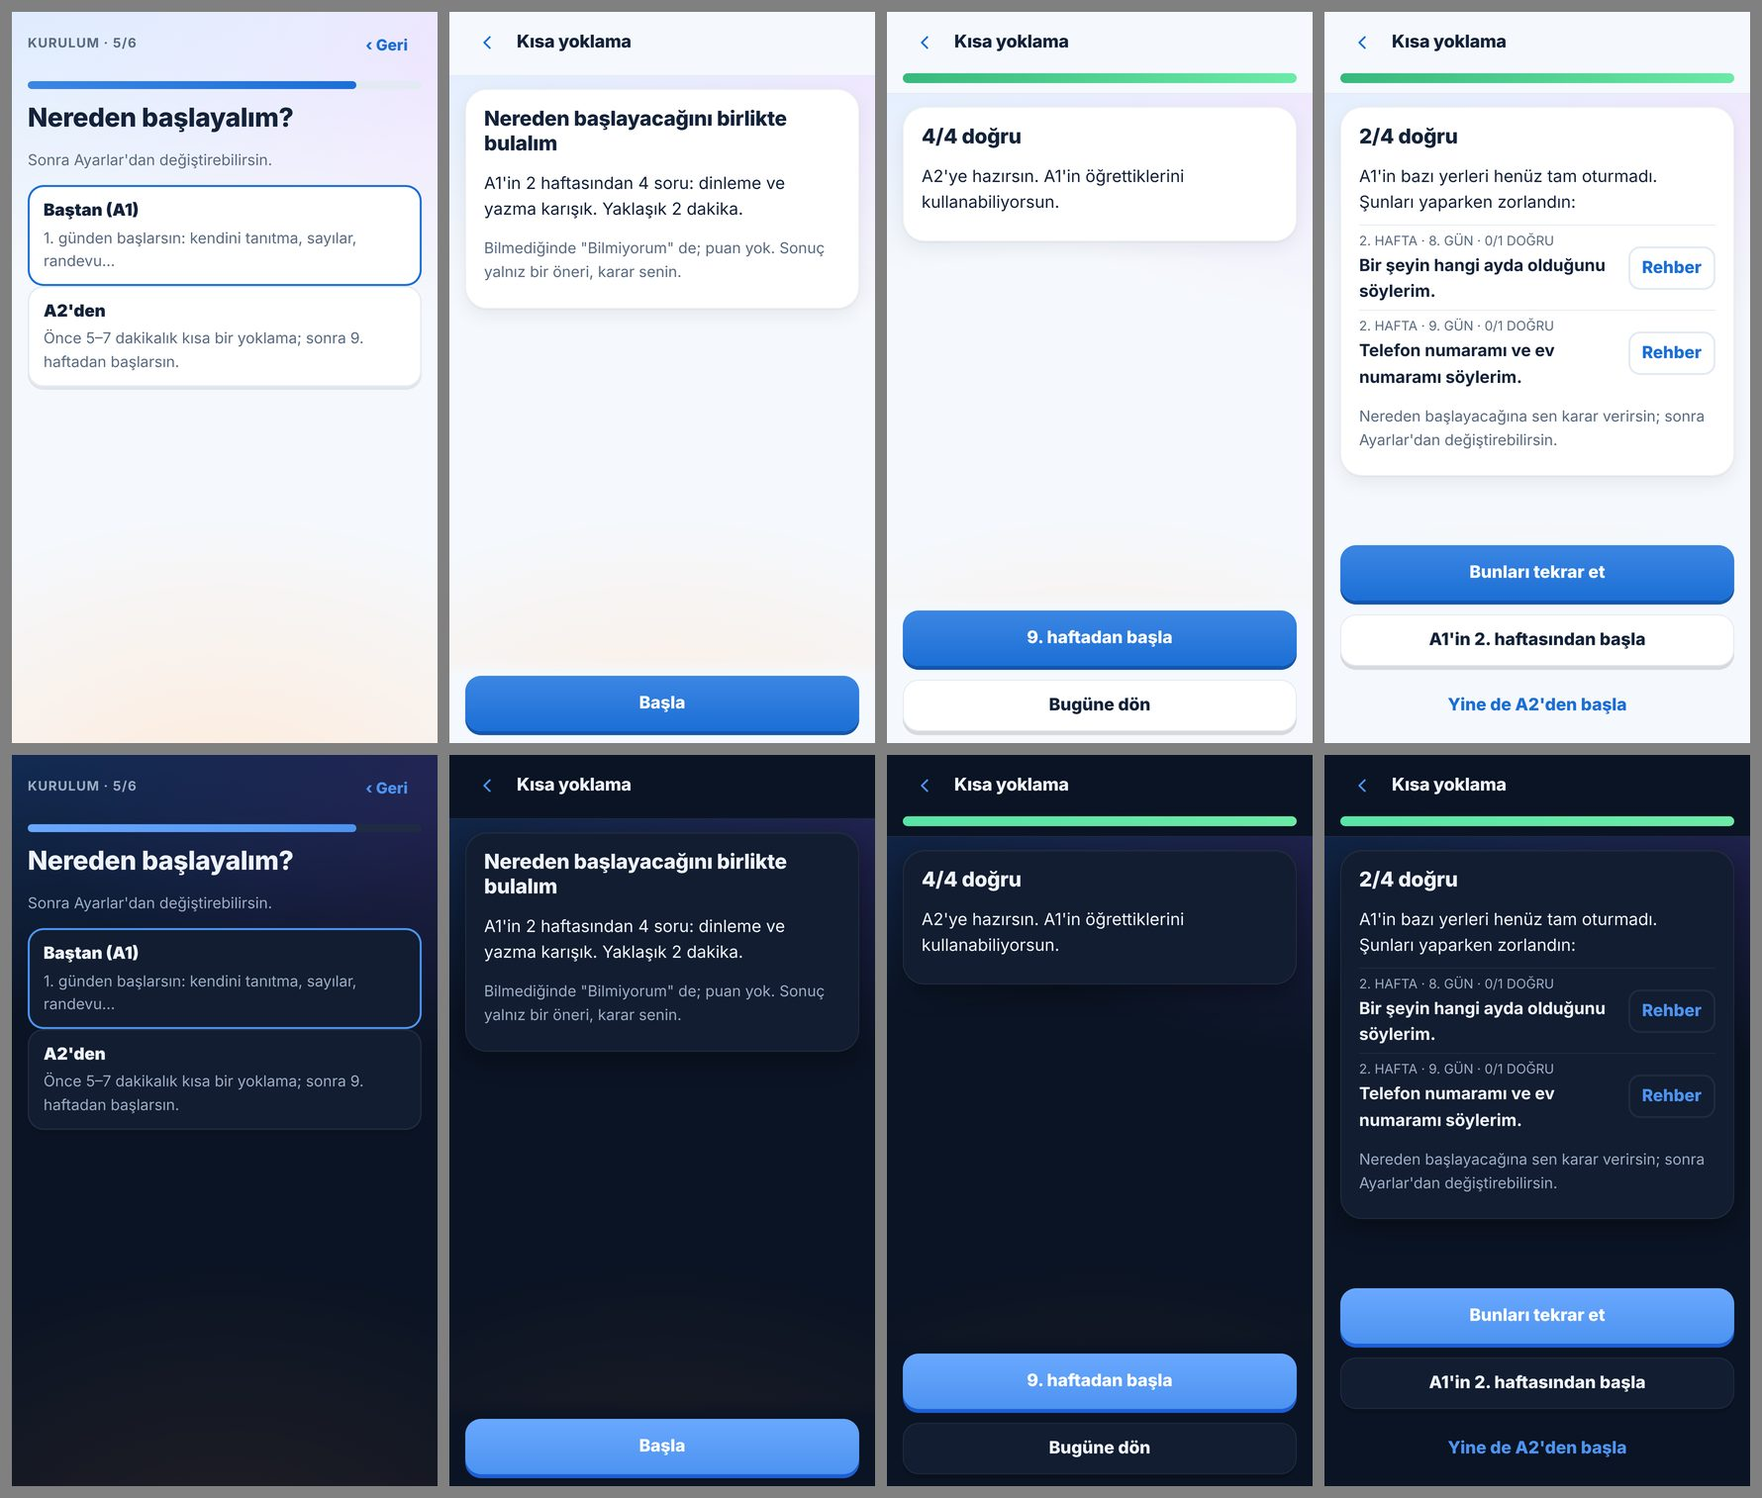
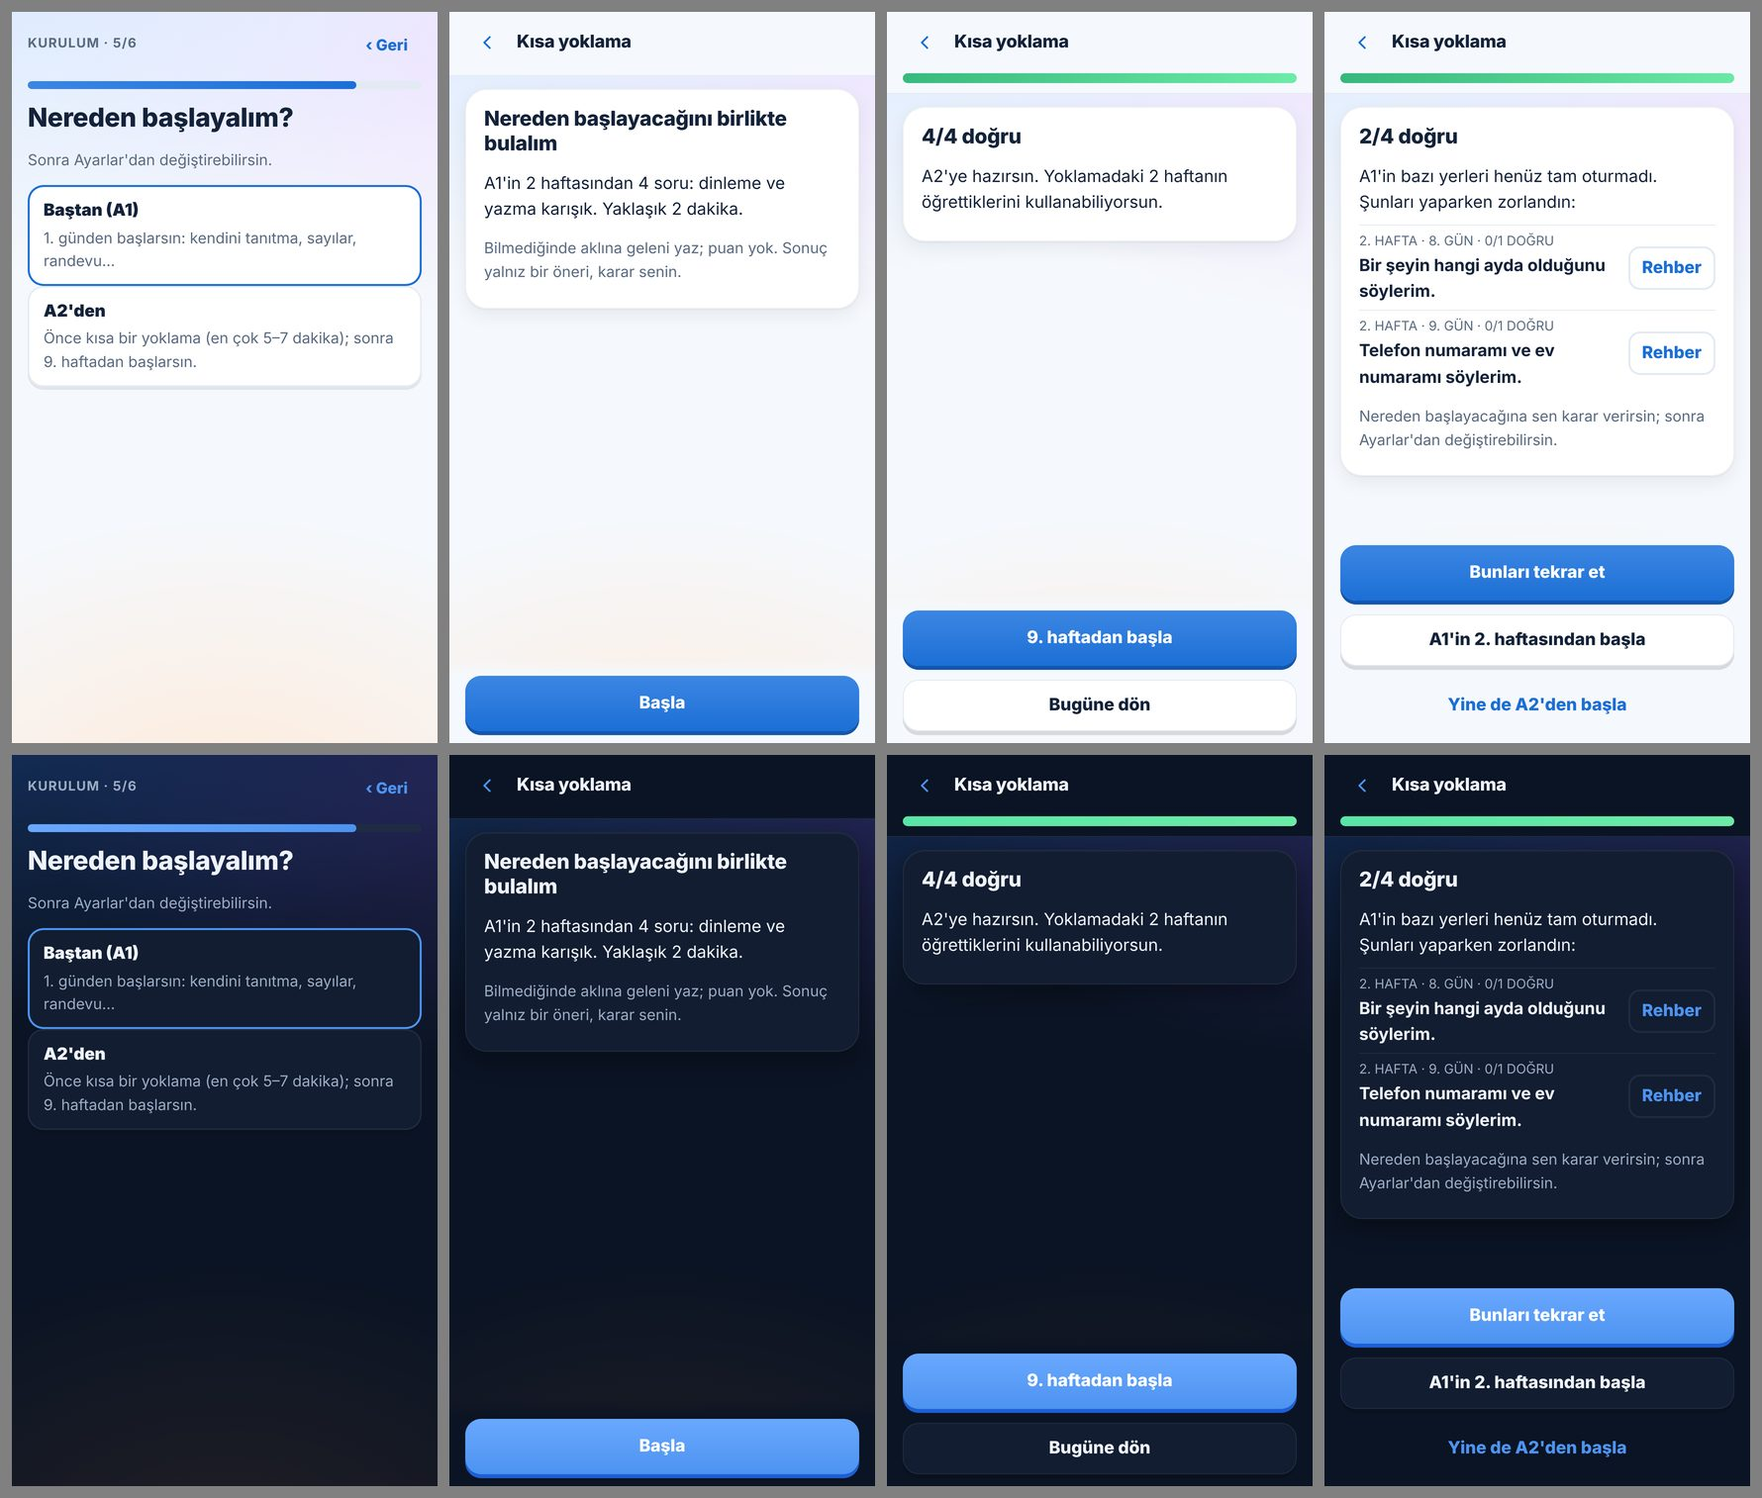
İnceleme #245: 'Gir' akışa gider (P1-1); 57. gün e2e'de oynanır; yoklama kapsamı, süre, bildirim, boş tekrar geri oku, kayıt hatası, A2 yokken açıklama, başlangıç haftası paket kontrolü (P2-1..6, 8)
Claude-Session: https://claude.ai/code/session_016gishJmnXNioGn5XkEmWZT

diff --git a/web/src/screens/Seviye.tsx b/web/src/screens/Seviye.tsx
@@ -8,7 +8,7 @@
 import { useEffect, useState } from "preact/hooks";
 import type { Drill } from "@dw/shared";
 import { go, useApp } from "../state.ts";
-import { a2Var, enErkenZayif, gecti, haftaBasi, SEVIYE, yoklamaDk, yoklamaSec, yoklamaZayif, type YoklamaMadde } from "../core/seviye.ts";
+import { a2Var, enErkenZayif, etkinBaslangic, gecti, haftaBasi, SEVIYE, yoklamaDk, yoklamaSec, yoklamaZayif, type YoklamaMadde } from "../core/seviye.ts";
 import { haftaOf } from "../core/gun.ts";
 import { personalizeDeep } from "../core/persona.ts";
 import { baslangicOku, baslangicYaz, yoklamaSonOku, yoklamaSonYaz, yoklamaTestleri, type YoklamaSon } from "../services/seviye.ts";
@@ -60,21 +60,24 @@ export function BaslangicSecimi({ kurulum, secili, onSec }: { kurulum?: boolean;
   const [onay, setOnay] = useState(false);
   const { basla, mesgul } = useBasla();
   useEffect(() => { if (!kurulum) void baslangicOku().then(setBas).catch(() => setBas(1)); }, []);
-  const a2 = !!index && a2Var(index.m1.map((g) => g.day));
-  const simdi = kurulum ? secili : bas === null ? undefined : bas >= SEVIYE.a2_ilk_gun ? "a2" : "a1";
+  const days = index?.m1.map((g) => g.day) ?? [];
+  const a2 = !!index && a2Var(days);
+  // kayıtlı başlangıç paketten düştüyse (A2 günleri yok) ekranda etkin olanı (baştan) söyle (inceleme #245 P2-5)
+  const etkin = bas === null || !index ? bas : etkinBaslangic(days, bas);
+  const simdi = kurulum ? secili : etkin === null ? undefined : etkin >= SEVIYE.a2_ilk_gun ? "a2" : "a1";
   const sec = (x: "a1" | "a2") => {
     if (kurulum) return onSec?.(x);
     if (x === "a2") return go("seviye");
-    if ((bas ?? 1) > 1) setOnay(true);
+    if ((etkin ?? 1) > 1) setOnay(true);
   };
   return (
     <div class="stack baslangic" data-test="baslangic-secimi" style={{ gap: 8 }}>
-      {!kurulum && bas !== null && <p class="small muted" data-test="baslangic-simdi" style={{ margin: 0 }}>Şu an: <b>{baslangicAdi(bas)}</b></p>}
+      {!kurulum && etkin !== null && <p class="small muted" data-test="baslangic-simdi" style={{ margin: 0 }}>Şu an: <b>{baslangicAdi(etkin)}</b></p>}
       <button class={`opt baslangic-opt${simdi === "a1" ? " sel" : ""}`} aria-pressed={simdi === "a1"} data-test="baslangic-a1" onClick={() => sec("a1")}>
         <span class="baslangic-ic"><b>Baştan (A1)</b><span class="small muted">1. günden başlarsın: kendini tanıtma, sayılar, randevu…</span></span>
       </button>
       <button class={`opt baslangic-opt${simdi === "a2" ? " sel" : ""}`} aria-pressed={simdi === "a2"} data-test="baslangic-a2" disabled={!a2} onClick={() => sec("a2")}>
-        <span class="baslangic-ic"><b>A2'den</b><span class="small muted">{a2 ? `Önce 5–7 dakikalık kısa bir yoklama; sonra ${a2Hafta}. haftadan başlarsın.` : "A2'nin günleri hazırlanıyor; hazır olunca buradan seçebilirsin."}</span></span>
+        <span class="baslangic-ic"><b>A2'den</b><span class="small muted">{a2 ? `Önce kısa bir yoklama (en çok 5–7 dakika); sonra ${a2Hafta}. haftadan başlarsın.` : "A2'nin günleri hazırlanıyor; hazır olunca buradan seçebilirsin."}</span></span>
       </button>
       {onay && (
         <section class="card stack" data-test="baslangic-a1-soru" style={{ gap: 8 }}>
@@ -90,7 +93,7 @@ export function BaslangicSecimi({ kurulum, secili, onSec }: { kurulum?: boolean;
 }
 
 export function SeviyeYoklama() {
-  const { index } = useApp();
+  const { index, toast } = useApp();
   const { maddeler, err, yenile } = useYoklama();
   const [basladi, setBasladi] = useState(false);
   const [q, setQ] = useState(0);
@@ -119,7 +122,7 @@ export function SeviyeYoklama() {
       <section class="card stack">
         <h2>Nereden başlayacağını birlikte bulalım</h2>
         <p>A1'in {haftalar} haftasından {toplam} soru: dinleme ve yazma karışık. Yaklaşık {yoklamaDk(toplam)} dakika.</p>
-        <p class="small muted">Bilmediğinde "Bilmiyorum" de; puan yok. Sonuç yalnız bir öneri, karar senin.</p>
+        <p class="small muted">Bilmediğinde aklına geleni yaz; puan yok. Sonuç yalnız bir öneri, karar senin.</p>
       </section>
       <ActionBar><button class="btn primary block" data-test="yoklama-basla" onClick={() => { setBasladi(true); window.scrollTo(0, 0); }}>Başla</button></ActionBar>
     </div>
@@ -129,7 +132,7 @@ export function SeviyeYoklama() {
     const y = r === "wrong" ? [...yanlis, m.d.id] : yanlis;
     const d = dogru + (r === "wrong" ? 0 : 1);
     setYanlis(y); setDogru(d); window.scrollTo(0, 0);
-    if (q + 1 >= toplam) { setBitti(true); void yoklamaSonYaz({ dogru: d, toplam, yanlis: y, maddeler: maddeler.map((x) => x.d.id) }).then(() => go("seviye/sonuc")); }
+    if (q + 1 >= toplam) { setBitti(true); void yoklamaSonYaz({ dogru: d, toplam, yanlis: y, maddeler: maddeler.map((x) => x.d.id) }).then(() => go("seviye/sonuc"), () => { setBitti(false); toast("Sonuç kaydedilemedi; son soruyu yeniden cevapla."); }); }
     else setQ(q + 1);
   };
   return (
@@ -164,13 +167,15 @@ export function SeviyeSonuc() {
   const a1Gun = haftaBasi(erken ?? 1);
   const yanlisDrill = bu.filter((x) => yanlis.has(x.d.id)).map((x) => x.d);
   const a2 = a2Var(index.m1.map((g) => g.day));
+  // yoklama A1'in yalnız paketteki haftalarından: az haftayla "A1'in tamamı" denmez (inceleme #245 P2-1)
+  const kapsam = new Set(bu.map((x) => x.hafta)).size;
   return (
     <div class="stack" data-test="yoklama-sonuc" data-dogru={son.dogru} data-toplam={son.toplam} data-gecti={ok ? "1" : "0"} data-erken={erken ?? ""}>
       <ProgressHeader title={BASLIK} back="#/today" ilerleme={{ n: son.toplam, toplam: son.toplam }} />
       <section class="card stack">
         <h2>{son.dogru}/{son.toplam} doğru</h2>
         {ok
-          ? <p>A2'ye hazırsın. A1'in öğrettiklerini kullanabiliyorsun.</p>
+          ? <p>A2'ye hazırsın. {kapsam === SEVIYE.a1_hafta ? "A1'in öğrettiklerini kullanabiliyorsun." : `Yoklamadaki ${kapsam} haftanın öğrettiklerini kullanabiliyorsun.`}</p>
           : zayif.length
             ? <p>A1'in bazı yerleri henüz tam oturmadı. Şunları yaparken zorlandın:</p>
             : <p>A1'in bazı yerleri henüz tam oturmadı. İstersen önce o haftanın günlerinden başla; karar senin.</p>}
@@ -183,6 +188,7 @@ export function SeviyeSonuc() {
             <a class="rehber-btn" href={`#/rehber/${z.gun}`} aria-label={`${z.gun}. günün rehberi`}>Rehber</a>
           </li>))}</ol>}
         {!ok && <p class="small muted">Nereden başlayacağına sen karar verirsin; sonra Ayarlar'dan değiştirebilirsin.</p>}
+        {!a2 && <p class="small muted" data-test="a2-hazirlaniyor">A2'nin günleri hazırlanıyor; hazır olunca buradan ya da Ayarlar'dan başlayabilirsin.</p>}
       </section>
       <ActionBar>
         {ok

diff --git a/web/src/screens/HaftaTesti.tsx b/web/src/screens/HaftaTesti.tsx
@@ -23,12 +23,12 @@ import { ErrorPanel, Loading } from "../ui/components.tsx";
 import { ActionBar, ProgressHeader } from "../ui/kit.tsx";
 import POLICY from "../policy.json" with { type: "json" };
 
-function Kilitli({ ust, baslik, metin, test = "gun-kilitli", ek }: { ust: string; baslik: string; metin: string; test?: string; ek?: ComponentChildren }) {
+function Kilitli({ ust, baslik, metin, test = "gun-kilitli", ek, back = "#/today" }: { ust: string; baslik: string; metin: string; test?: string; ek?: ComponentChildren; back?: string }) {
   return (
     <div class="stack" data-test={test}>
-      <ProgressHeader title={ust} back="#/today" />
+      <ProgressHeader title={ust} back={back} />
       <section class="card stack"><h2>{baslik}</h2><p>{metin}</p>{ek}</section>
-      <ActionBar><a class="btn primary block" href="#/today" data-test="bugune-don">Bugüne dön</a></ActionBar>
+      <ActionBar><a class="btn primary block" href={back} data-test="bugune-don">{back === "#/today" ? "Bugüne dön" : "Geri dön"}</a></ActionBar>
     </div>
   );
 }
@@ -195,7 +195,7 @@ export function HaftaTekrarEkrani({ hafta, gunler, seviye = false }: { hafta: nu
   }, [index?.version, hafta, gunler.join(","), n, seviye]);
   if (err) return <div class="stack"><ProgressHeader title={baslik} back={geri} /><ErrorPanel message={err} onRetry={() => setN((x) => x + 1)} /></div>;
   if (!tur) return <Loading />;
-  if (tur === "bos") return <Kilitli ust={baslik} baslik="Burada tekrar yok" metin="Bu günler henüz bitmedi ya da tekrar alıştırması yok." test="hafta-tekrar-bos"
+  if (tur === "bos") return <Kilitli ust={baslik} baslik="Burada tekrar yok" metin={seviye ? "Bu günlerin tekrar alıştırması henüz yok." : "Bu günler henüz bitmedi ya da tekrar alıştırması yok."} test="hafta-tekrar-bos" back={geri}
     ek={gunler.filter((g) => (seviye || haftaOf(g) === hafta) && index?.m1.some((x) => x.day === g)).slice(0, 1).map((g) => <a class="btn sm" href={`#/rehber/${g}`}>{g}. günün Rehber'i</a>)} />;
   if (bitti) return (
     <div class="stack" data-test="hafta-tekrar-sonuc" data-dogru={dogru} data-toplam={tur.length}>

diff --git a/web/src/screens/Yol.tsx b/web/src/screens/Yol.tsx
@@ -222,7 +222,8 @@ export function YolHarita({ plan, selam, ek, onBasla, yalnizBugun }: { plan: Pla
         </button>
         {ac && <ol class="hafta-gunler" data-test={`hafta-${h.hafta}-gunler`}>{h.gunler.map((g) => (
           <li class="row" data-test={`gun-${g.day}`} data-durum={g.atlandi ? "atlandi" : "bitti"}><span class="grow"><span class="tiny muted">GÜN {g.day}{g.atlandi ? " · ATLANDI" : ""}</span> {g.title_tr}</span>
-            {g.atlandi && <a class="rehber-btn" href={`#/m1/${g.day}`} data-test={`gir-${g.day}`} aria-label={`${g.day}. güne gir`}>Gir</a>}
+            {/* atlanan gün halka biçiminde akışla açılır (inceleme #245 P1-1); gün kilidi atlanan günü açık tutar */}
+            {g.atlandi && <a class="rehber-btn" href={`#/akis/${g.day}`} data-test={`gir-${g.day}`} aria-label={`${g.day}. güne gir`}>Gir</a>}
             <a class="rehber-btn" href={`#/rehber/${g.day}`} aria-label={`${g.day}. günün rehberi`}>Rehber</a></li>))}</ol>}
         {/* üstte "… sonu testi hazır → Çöz" satırı dururken aynı teste ikinci giriş yok (#243 PM finali takip b) */}
         {ac && testAcik(h.hafta) && !bekleyenTest.includes(h.hafta) && <div class="row">{testDugum(h.hafta)}</div>}

diff --git a/web/src/core/seviye.ts b/web/src/core/seviye.ts
@@ -16,8 +16,9 @@ import POLICY from "../policy.json" with { type: "json" };
 export const SEVIYE = POLICY.seviye;
 /** Haftanın ilk günü */
 export const haftaBasi = (hafta: number) => 7 * (hafta - 1) + 1;
-/** Pakette başlangıç gününden itibaren gün yoksa başlangıç uygulanmaz (A2 günleri henüz yoksa öğrenci boş yola düşmez) */
-export const etkinBaslangic = (days: readonly number[], bas: number): number => (bas > 1 && yolGunleri([...days]).some((d) => d >= bas) ? bas : 1);
+/** Başlangıç haftasının günü pakette yoksa başlangıç uygulanmaz (A2 günleri henüz yoksa öğrenci boş yola ya da ileri bir
+ *  haftaya düşmez; inceleme #245 P2-6) */
+export const etkinBaslangic = (days: readonly number[], bas: number): number => (bas > 1 && yolGunleri([...days]).some((d) => d >= bas && haftaOf(d) === haftaOf(bas)) ? bas : 1);
 /** A2 pakette var mı ("A2'den" seçeneği yalnız o zaman) */
 export const a2Var = (days: readonly number[]) => etkinBaslangic(days, SEVIYE.a2_ilk_gun) === SEVIYE.a2_ilk_gun;
 

diff --git a/web/src/screens/Onboarding.tsx b/web/src/screens/Onboarding.tsx
@@ -168,7 +168,7 @@ export function Onboarding() {
           {baslangic === "a2"
             ? <>
                 <div class="card small">
-                  <b>Kısa yoklama.</b> A1'in hafta sonu testlerinden 5–7 dakikalık birkaç soru. Sonuç yalnız bir öneri; nereden başlayacağına sen karar verirsin.
+                  <b>Kısa yoklama.</b> A1'in hafta sonu testlerinden birkaç soru (en çok 5–7 dakika). Sonuç yalnız bir öneri; nereden başlayacağına sen karar verirsin.
                 </div>
                 <button class="btn primary block" onClick={() => finish("seviye")} data-test="yoklama-git">Kısa yoklamaya başla</button>
               </>

diff --git a/web/src/core/seviye.test.ts b/web/src/core/seviye.test.ts
@@ -26,6 +26,8 @@ describe("seviye: başlangıç ve atlanan günler", () => {
     expect(a2Var([1, 2, 3])).toBe(false);
     expect(a2Var(days)).toBe(true);
     expect(etkinBaslangic(days, 15)).toBe(15);
+    // başlangıç haftasında gün yoksa ileri haftaya atlanmaz (inceleme #245 P2-6): 1–7 + 57 paketinde "2. haftadan" → baştan
+    expect(etkinBaslangic([1, 2, 3, 4, 5, 6, 7, 57], 8)).toBe(1);
   });
   it("atlanan = başlangıçtan önce, bitmemiş; biten gün atlanmış sayılmaz", () => {
     expect([...atlananlar(days, 57, new Set([1]))]).toEqual([2, 3, 8, 9, 15]);

diff --git a/tests/e2e/v2_seviye.py b/tests/e2e/v2_seviye.py
@@ -12,6 +12,7 @@ python3 tests/e2e/v2_seviye.py [--browser webkit] [--device "iPhone 15"] [--sche
 from playwright.sync_api import sync_playwright
 from common import serve, launch, new_page, login_onboard, check, finish, shot, arg, no_overflow, HIZLI_KAPAT
 from v2_yol_hafta import coz, yanlis, META
+from v2_akis import adim_gec
 
 PORT = 4257
 ITEMS = """async () => { const d = await new Promise((ok) => { const q = indexedDB.open('dw2'); q.onsuccess = () => ok(q.result); });
@@ -119,10 +120,28 @@ def main():
         g1 = pg.evaluate("() => { const l = document.querySelector('[data-test=hafta-1-gunler] [data-test=gun-1]'); return l ? { d: l.dataset.durum, gir: !!l.querySelector('[data-test=gir-1]'), t: l.innerText } : null; }")
         check(bool(g1) and g1["d"] == "atlandi" and g1["gir"], f"atlanan hafta açılır; gün 'atlandı' + 'Gir' ({g1})")
         no_overflow(pg, "Yol (A2'den)"); shot(pg, f"seviye-yol-atlandi-{sema}", full=False)
-        pg.click("[data-test=gir-1]"); pg.wait_for_selector("[data-test=gun-kilitli], [data-test=m1-gun], [data-test=adim], main", timeout=15000)
-        check(pg.locator("[data-test=gun-kilitli]").count() == 0, "atlanan gün kilitli değil: isteyen döner")
+        check(pg.get_attribute("[data-test=gir-1]", "href") == "#/akis/1", "'Gir' atlanan günün akışına gider")
+        pg.click("[data-test=gir-1]"); pg.wait_for_selector("[data-test=gun-kilitli], [data-test=akis]", timeout=20000)
+        check(pg.locator("[data-test=akis]").count() == 1 and pg.locator("[data-test=gun-kilitli]").count() == 0, "atlanan gün kilitli değil, akışı açılır: isteyen döner")
         pg.goto(base + "#/akis/57"); pg.wait_for_selector("[data-test=akis], [data-test=gun-kilitli]", timeout=20000)
         check(pg.locator("[data-test=akis]").count() == 1, "57. günün akışı açılır")
+        # 57. gün oynanır (PM-114 md. 5): ses durağı bitmiş sayılır, sonra akışın adımları geçilir; akış kaydı ilerler
+        sesler = pg.evaluate("""async () => { const v = (await (await fetch('content/current.json')).json()).version;
+          return (await (await fetch('content/' + v + '/m1/gun-57.json')).json()).sesler.map((x) => x.id); }""")
+        pg.evaluate("""async (ks) => { const d = await new Promise((ok) => { const q = indexedDB.open('dw2'); q.onsuccess = () => ok(q.result); });
+          await new Promise((ok) => { const t = d.transaction('meta', 'readwrite'); for (const k of ks) t.objectStore('meta').put({ key: k, value: { bitti: new Date().toISOString() } }); t.oncomplete = ok; }); d.close(); }""",
+          ["m1:medya:" + x + ":1" for x in sesler])
+        pg.reload(); pg.wait_for_selector("[data-test=akis]", timeout=20000)
+        once = pg.evaluate(META, "akis:57") or {}
+        gecilen = 0
+        for _ in range(25):
+            if pg.locator("[data-test=halka-sonu]").count(): pg.click("[data-test=halka-sonu-devam]"); pg.wait_for_timeout(150); continue
+            if pg.locator("[data-test=akis-durak-gecis]").count(): break
+            if adim_gec(pg) is None: break
+            gecilen += 1
+        sonra = pg.evaluate(META, "akis:57") or {}
+        check(gecilen >= 5 and len(sonra.get("sonuclar", [])) > len(once.get("sonuclar", [])), f"57. günün akışı oynanır: {gecilen} adım geçildi, kayıt ilerledi ({len(once.get('sonuclar', []))} → {len(sonra.get('sonuclar', []))} sonuç)")
+        shot(pg, f"seviye-akis-57-{sema}", full=False)
         pg.goto(base + "#/garden/57"); pg.wait_for_selector("[data-test=garden-intro], [data-test^=gq-], [data-test=garden-done], [data-test=garden-empty], [data-test=hizli-oneri], [data-test=gun-kilitli]", timeout=20000)
         check(pg.locator("[data-test=gun-kilitli]").count() == 0, "57. günün Bahçe'si açılır")
         # fikstürün 57. günü 9. günün kartlarını taşır: hepsi atlanan günden "biliniyor" → Bahçe onları yeniden tanıtmaz (sakin bahçe)
@@ -179,6 +198,8 @@ def main():
         pg.goto(base + "#/ben/ayarlar"); pg.wait_for_selector("[data-test=baslangic-simdi]", timeout=15000)
         check("A2'den (9. hafta)" in pg.inner_text("[data-test=baslangic-simdi]"), "Ayarlar: 'Şu an: A2'den (9. hafta)'")
         pg.click("[data-test=baslangic-a1]"); pg.wait_for_selector("[data-test=baslangic-a1-soru]")
+        try: pg.wait_for_selector(".toast", state="detached", timeout=3500)  # önceki adımın bildirimi görüntüye düşmesin
+        except Exception: pass
         no_overflow(pg, "Ayarlar başlangıç"); shot(pg, f"seviye-ayarlar-{sema}", full=False)
         pg.click("[data-test=baslangic-a1-onay]"); pg.wait_for_selector("[data-test=next-activity]", timeout=20000)
         bugun = pg.evaluate("() => [...document.querySelectorAll('[data-test=yol] section.yolgun')].map((s) => s.dataset.test)")
